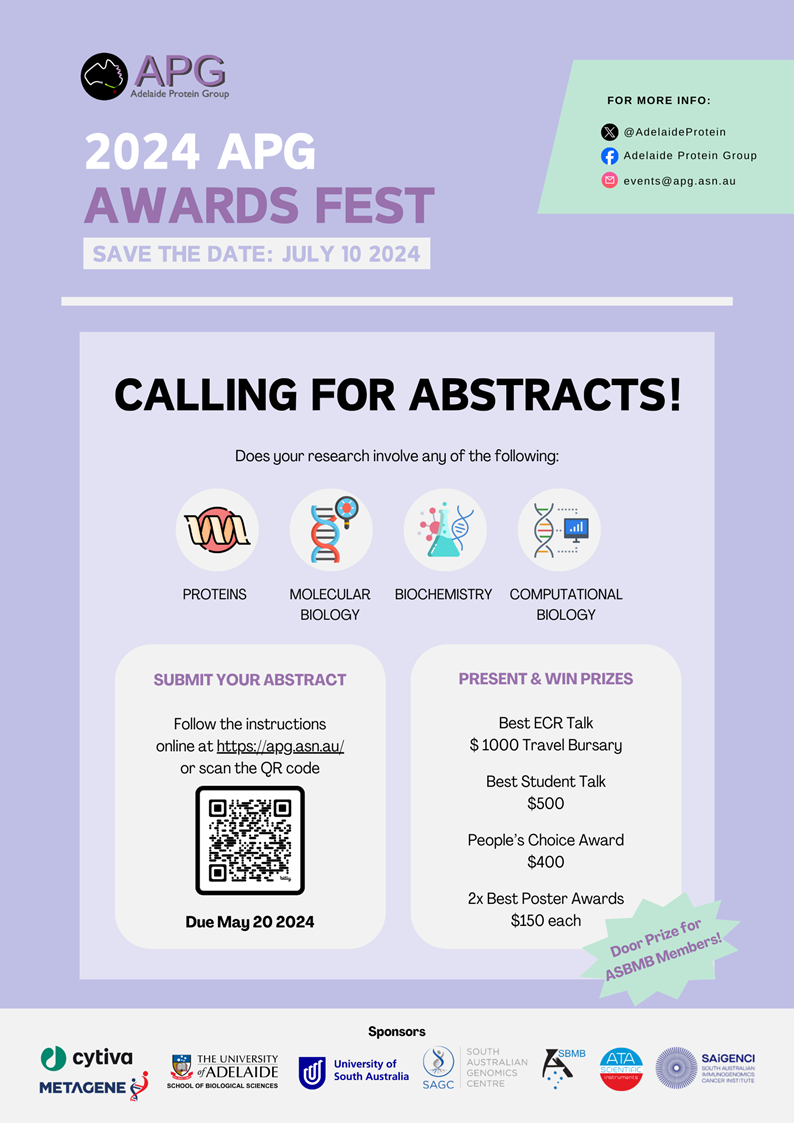
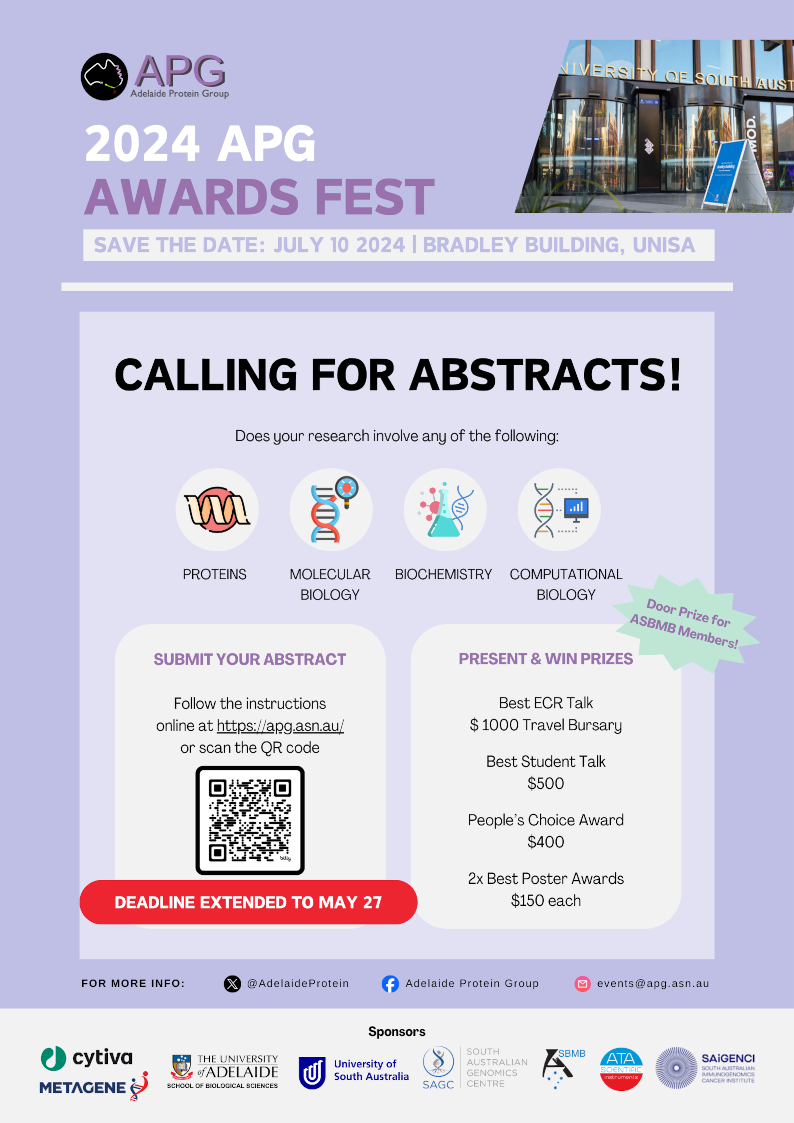
update abstract deadline

diff --git a/_posts/2024-04-26-awardsfest-cfa.md b/_posts/2024-04-26-awardsfest-cfa.md
@@ -9,7 +9,7 @@ Submit your abstract for AwardsFest 2024!
 
 [Submit your abstracts here](https://forms.gle/Q4wakBV2bZGjxTUG8)
 
-__Abstract submission closes 20 May__
+__UPDATED: Abstract submission closes 27 May__
 
 ## Prizes
 
